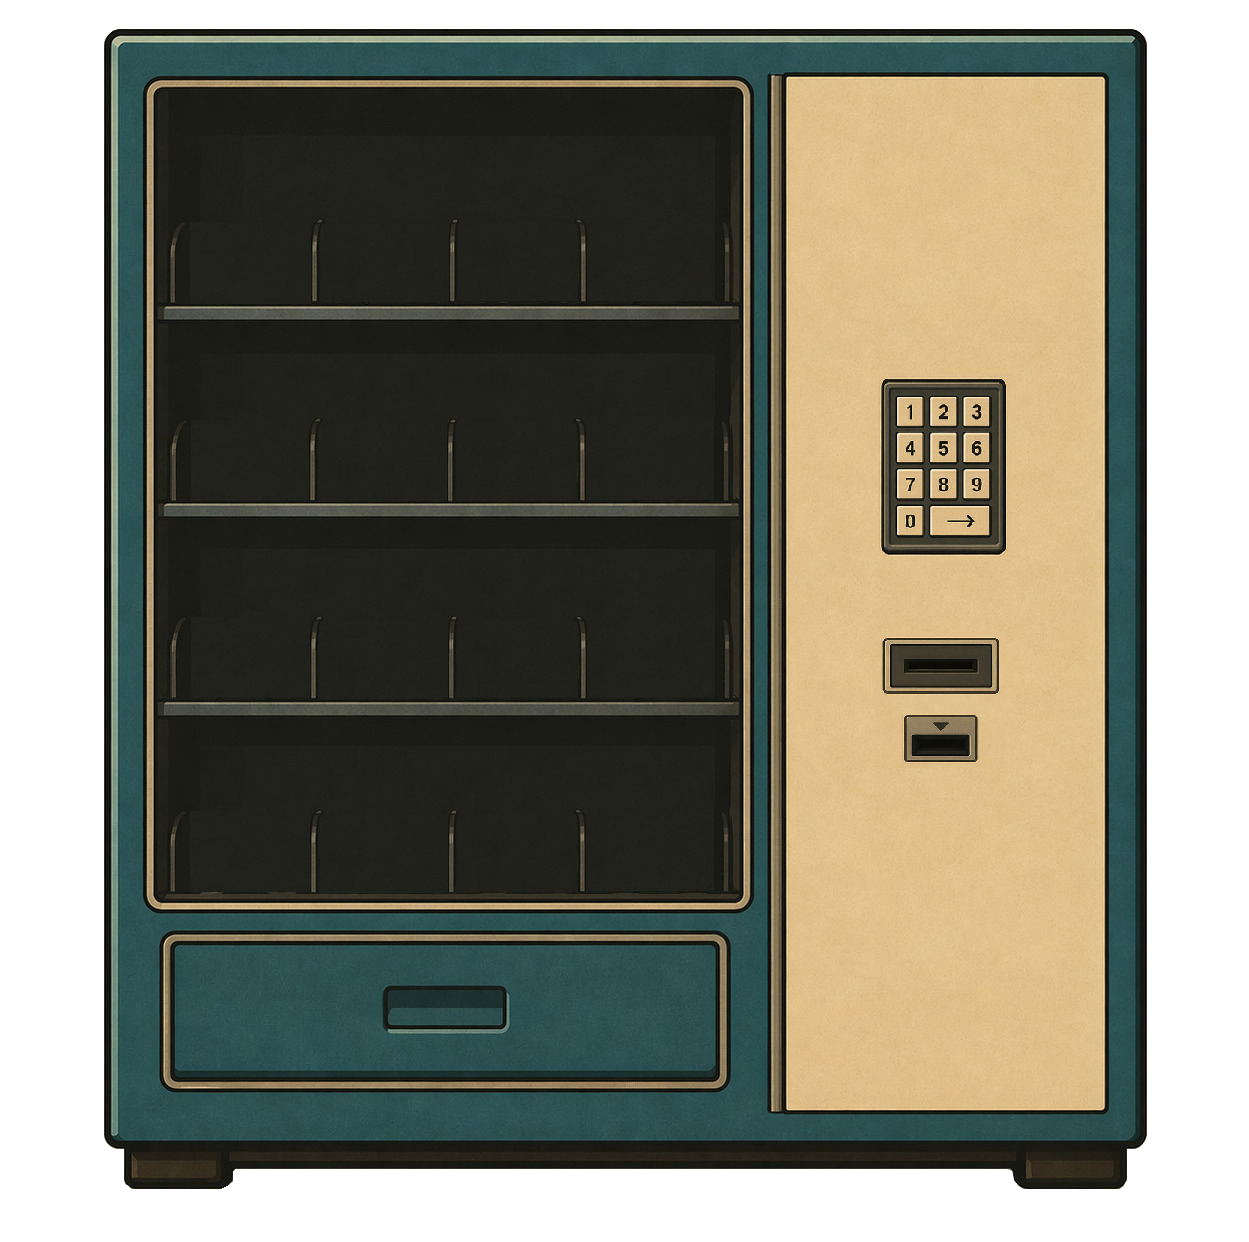
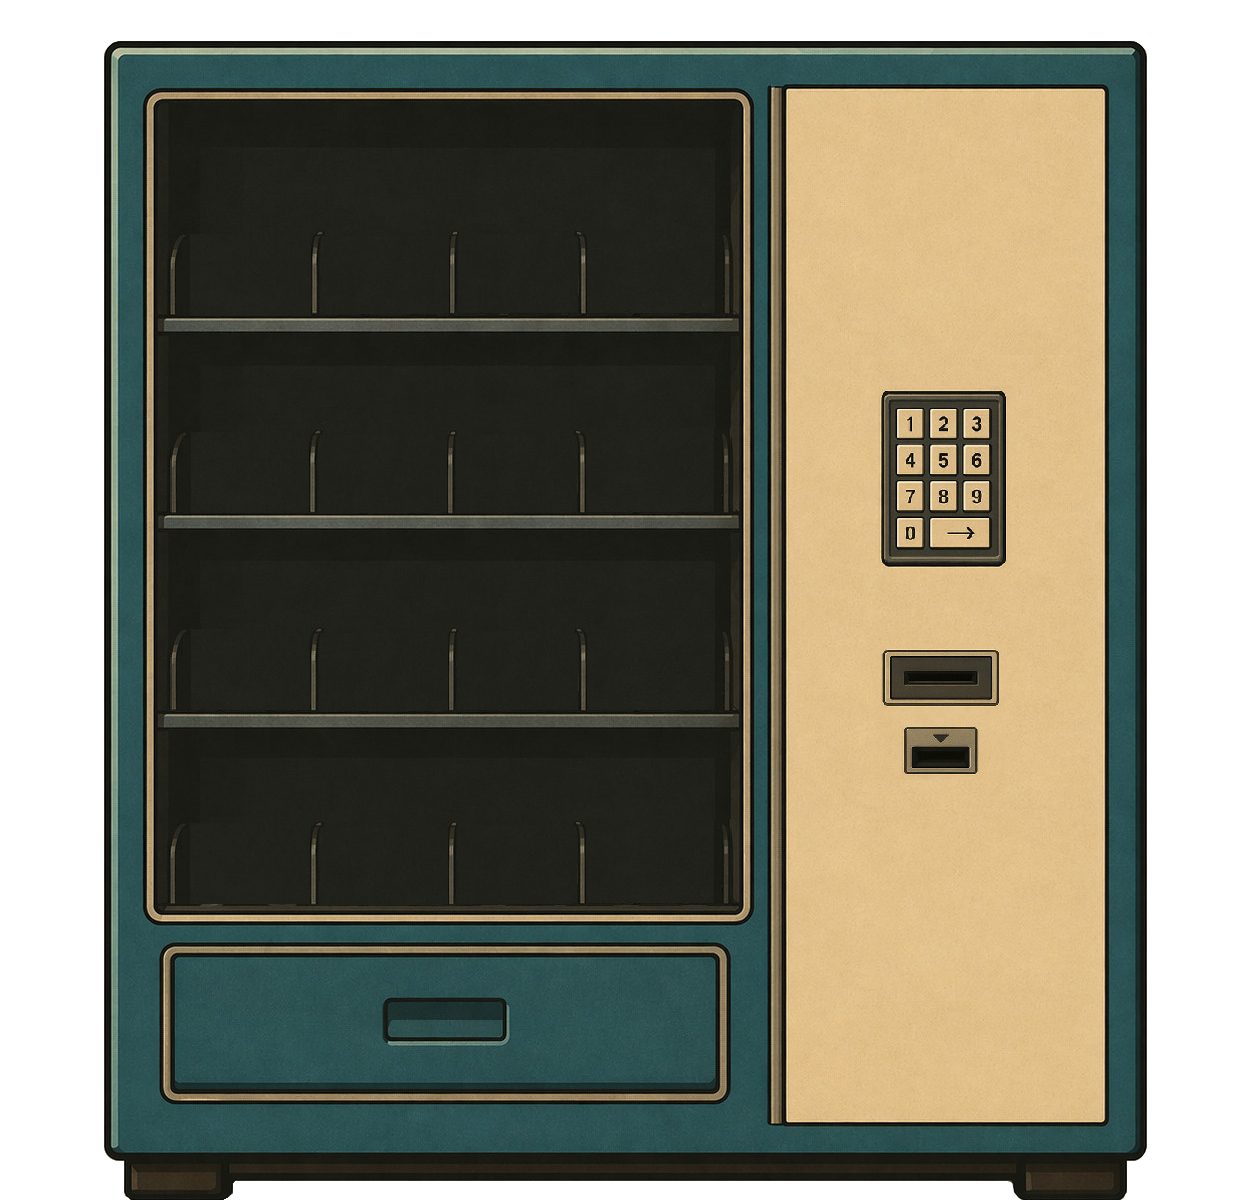
Lowered vending machine

diff --git a/src/styles.css b/src/styles.css
@@ -162,7 +162,7 @@ img {
     position: relative;
     min-height: 100vh; /* restore previous min-height */
     /*outline: 2px solid blue; /* Vending machine outline */
-    padding: 2.4rem 0rem 6.5rem 1.5rem; /* restore original padding */
+    padding: 3.9rem 0rem 6.5rem 1.5rem; /* restore original padding */
     display: flex; /* layout: snack-box + control */
     align-items: stretch;
   }
@@ -172,7 +172,7 @@ img {
     margin: 0 auto;
     background-image: url('/images/rest/Vending_machine_bottom.png');
     background-size: 120% 100vh; 
-    background-repeat: no-repeat;
+    background-repeat: no-repeat;/* prevent tiling */
     background-position: center top;
     background-color: transparent;
     border-radius: var(--border-radius);
@@ -192,7 +192,7 @@ img {
     justify-content: flex-start;
     /*border: 2px solid red; /* Snack (glass) border */
     border-radius: var(--border-radius);
-    padding: 3.52rem 1.5rem 1rem 1rem; 
+    padding: 3rem 1.5rem 0rem 1rem; 
     flex: 1 1 auto; /* grow to fill available space inside snack-box */
     box-sizing: border-box;
     background: transparent;
@@ -207,7 +207,8 @@ img {
     gap: var(--spacing-sm);
     /*border: 2px solid gold; /* Snack-box wrapper outline (yellow) */
     border-radius: var(--border-radius);
-    padding: 1rem 1.5rem 1rem 1rem; /* restore original padding */
+    /* increase bottom padding so projects-section can expand downward */
+    padding: 1rem 1.5rem calc(1rem - 7px) 1rem; /* add 20px extra bottom space */
     box-sizing: border-box;
   }
 
@@ -519,17 +520,16 @@ img {
     Chute Area
     =================================== */
   .chute-area {
+      /* make chute taller and move it lower so it aligns under projects */
       flex: 0 0 14%;
-      /* move visually: 1px right, 4px up (adjusted: move 2px further up) */
-       transform: translate(-5px, -5px);
-      min-height: 0;
+      transform: translate(-5px, 25px);
+      min-height: 40px;
      /*border: 2px solid rgb(153, 51, 153); /* Chute outline (purple) */
      border-radius: 6px;
         overflow: hidden; /* clip shine inside the chute box */
       position: relative; /* needed for shine pseudo-element */
-      /* slightly reduce overall width and height */
-       width: calc(var(--chute-width) - 10px); /* control overall width */
-      max-height: calc(15% - 4px);
+      width: calc(var(--chute-width) - 10px); 
+      max-height: calc(22% - 4px);
      margin: 0 auto; /* center horizontally inside parent */
       padding: var(--spacing-sm) var(--chute-padding-inline); /* vertical and horizontal padding */
     display: flex;
